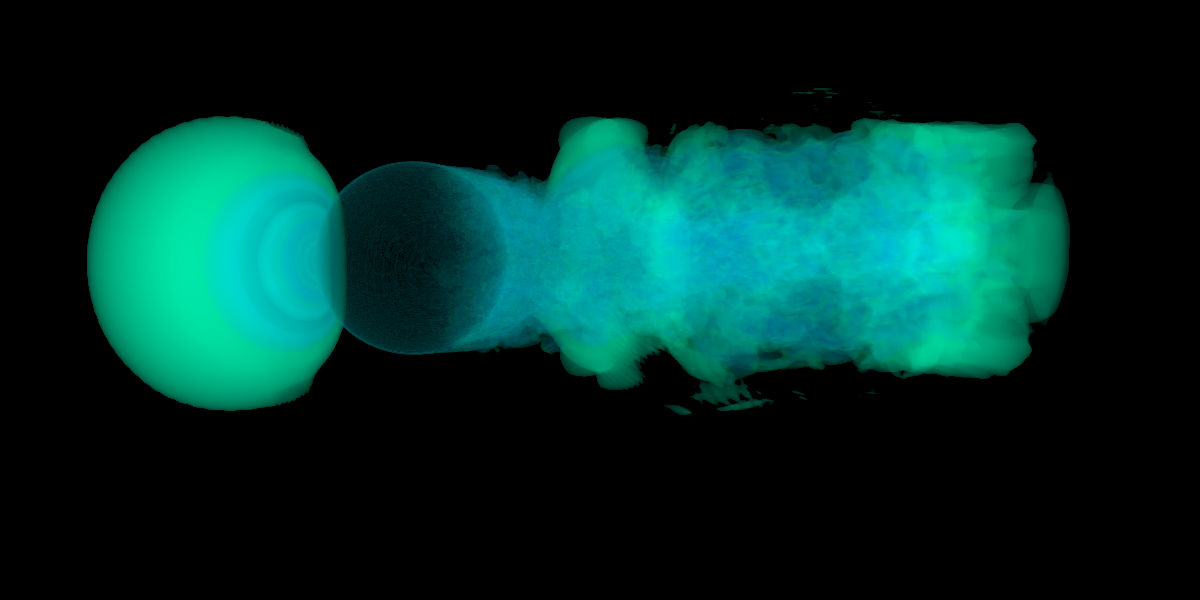
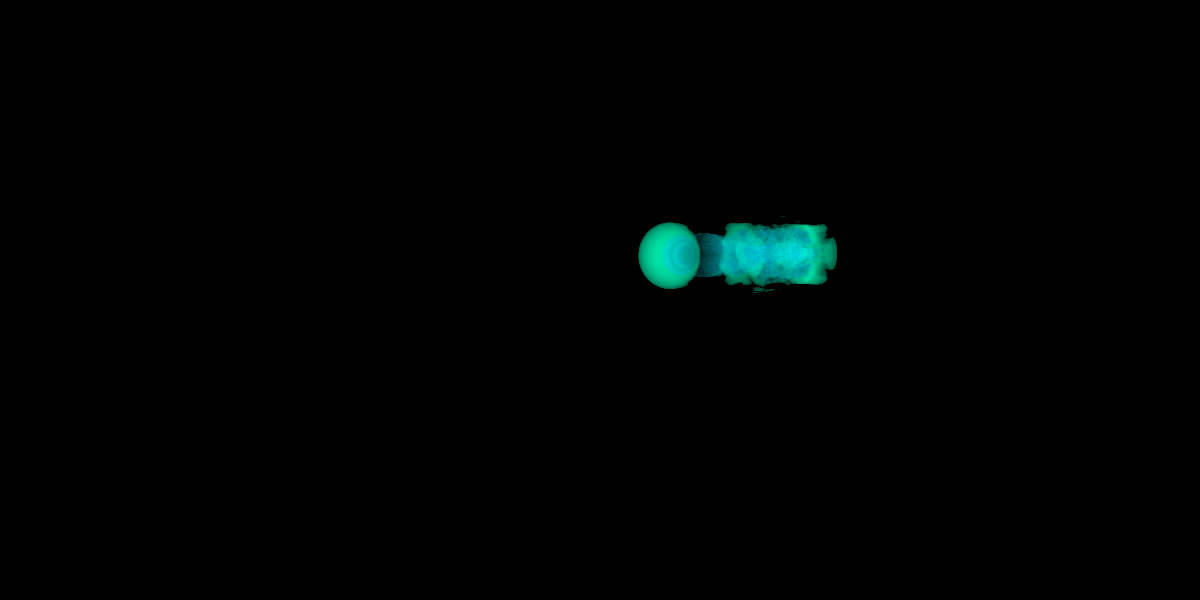
KD tree & adaptive step size.

diff --git a/src/scene.cpp b/src/scene.cpp
@@ -2,9 +2,60 @@
 
 void Scene::setGrids(const std::vector<vdbGrid> &Grids) {
     grids = Grids;
+    KDTree *current = &tree;
+    current->aabb = grids[0].aabb;
+    for (int i = 0; i < grids.size() - 1; ++i) {
+        auto [out_lo, out_hi] = grids[i].aabb;
+        out_lo = grids[i].grid->transform().indexToWorld(grids[i].grid->evalActiveVoxelBoundingBox().min() - Vec3d(1));
+        auto [in_lo, in_hi] = grids[i + 1].aabb;
+        in_lo = grids[i + 1].grid->transform().indexToWorld(grids[i + 1].grid->evalActiveVoxelBoundingBox().min() - Vec3d(1));
+        current->leaf = false;
+        current->children.push_back(KDTree{.leaf=false, .aabb = AABB{in_lo, in_hi}});
+        current->children.push_back(KDTree{.leaf=true,
+                .aabb = AABB{{out_lo.x(), out_lo.y(), out_lo.z()},
+                             {in_lo.x(),  out_hi.y(), out_hi.z()}},
+                .support_layer = i});
+        current->children.push_back(KDTree{.leaf=true,
+                .aabb = AABB{{in_hi.x(),  out_lo.y(), out_lo.z()},
+                             {out_hi.x(), out_hi.y(), out_hi.z()}},
+                .support_layer = i});
+        current->children.push_back(KDTree{.leaf=true,
+                .aabb = AABB{{in_lo.x(), out_lo.y(), out_lo.z()},
+                             {in_hi.x(), in_lo.y(),  out_hi.z()}},
+                .support_layer = i});
+        current->children.push_back(KDTree{.leaf=true,
+                .aabb = AABB{{in_lo.x(), in_hi.y(),  out_lo.z()},
+                             {in_hi.x(), out_hi.y(), out_hi.z()}},
+                .support_layer = i});
+        current->children.push_back(KDTree{.leaf=true,
+                .aabb = AABB{{in_lo.x(), in_lo.y(), out_lo.z()},
+                             {in_hi.x(), in_hi.y(), in_lo.z()}},
+                .support_layer = i});
+        current->children.push_back(KDTree{.leaf=true,
+                .aabb = AABB{{in_lo.x(), in_hi.y(), in_hi.z()},
+                             {in_hi.x(), in_hi.y(), out_hi.z()}},
+                .support_layer = i});
+        current = &current->children[0];
+    }
+    current->support_layer = static_cast<int>(grids.size()) - 1;
+    current->leaf = true;
 }
 
-float Scene::interpolation(const Vec3f &pos) const {
+int Scene::searchTree(const Vec3f pos) const {
+    auto recursiveFind = [](const KDTree *layer, const Vec3f pos, auto &&findLayer) {
+        if (!layer->aabb.inAABB(pos)) return -1;
+        if (layer->leaf) return layer->support_layer;
+        for (const auto &child: layer->children) {
+            if (child.aabb.inAABB(pos)) {
+                return findLayer(&child, pos, findLayer);
+            }
+        }
+        return -1;
+    };
+    return recursiveFind(&tree, pos, recursiveFind);
+}
+
+std::pair<float, float> Scene::interpolation(const Vec3f &pos) const {
     std::vector<std::vector<Vec3i>> Corners;
 
     for (const auto &grid: grids) {
@@ -21,10 +72,14 @@ float Scene::interpolation(const Vec3f &pos) const {
                            {upper.x(), upper.y(), upper.z()}});
     }
 
+    // Traverse KD-tree
+    int layers = searchTree(pos);
+    if (layers == -1) return {0.0f, 0.0f};
+
     float numerator = 0;
     float denominator = 0;
     for (int r = 0; r < 8; ++r) {
-        for (int i = static_cast<int>(Corners.size()) - 1; i >= 0; --i) {
+        for (int i = layers; i >= 0; --i) {
             openvdb::Coord coord{Corners[i][r]};
             if (grids[i].grid->tree().isValueOn(coord)) {
                 Vec3f corner = grids[i].grid->transform().indexToWorld(Corners[i][r]);
@@ -38,7 +93,8 @@ float Scene::interpolation(const Vec3f &pos) const {
             }
         }
     }
-    return denominator == 0 ? 0 : numerator / denominator;
+    if (denominator == 0) return {0.0f, grids[layers].dx};
+    else return {numerator / denominator, grids[layers].dx};
 }
 
 float Scene::sampleOpacity(float value) {
@@ -124,7 +180,7 @@ Vec3f Scene::sampleEmission(float value) {
     return color;
 }
 
-std::pair<Vec3f, float> Scene::getEmissionOpacity(Vec3f value) const {
-    auto inter = interpolation(value);
-    return {sampleEmission(inter), sampleOpacity(inter)};
+std::tuple<Vec3f, float, float> Scene::getEmissionOpacity(Vec3f value) const {
+    auto [inter, layer] = interpolation(value);
+    return {sampleEmission(inter), sampleOpacity(inter), layer};
 }

diff --git a/src/integrator.cpp b/src/integrator.cpp
@@ -31,7 +31,7 @@ void Integrator::render() const {
 }
 
 Vec3f Integrator::radiance(Ray &ray, float t0, float t1) const {
-    float step_size = 0.01;
+    float step_size = scene->grids[0].dx;
     Vec3f src_color = Vec3f{0, 0, 0};
     float src_opacity = 0;
     auto dst_t = (float) fmax(t0 - step_size, ray.t0());
@@ -40,7 +40,10 @@ Vec3f Integrator::radiance(Ray &ray, float t0, float t1) const {
     while (dst_t < t1 - step_size) {
         dst_t += step_size;
         dst_pos = ray(dst_t);
-        std::tie(dst_color, dst_opacity) = scene->getEmissionOpacity(dst_pos);
+        float dx;
+        std::tie(dst_color, dst_opacity, dx) = scene->getEmissionOpacity(dst_pos);
+        // Adaptive step size
+        if (dx != 0) step_size = dx;
         dst_color *= step_size;
         dst_opacity = 1 - std::pow(1 - dst_opacity, step_size);
         dst_color += (1 - dst_opacity) * src_color;

diff --git a/src/main.cpp b/src/main.cpp
@@ -14,7 +14,6 @@ int main() {
 
     std::shared_ptr<ImageRGB> image = std::make_shared<ImageRGB>(1200, 600);
     Camera cam(Vec3f(3, 3.2, 15), 19.5, 1, Vec3f(10, 0, -10), Vec3f(0, 1, 0), image);
-//    Camera cam(Vec3f(3, 3.2, 15) - 3 * Vec3f(10, 0, -10), 19.5, 1, Vec3f(10, 0, -10), Vec3f(0, 1, 0), image);
     Scene scene;
     scene.setGrids(ScalarGrids);
     Integrator integrator(std::make_shared<Camera>(cam), std::make_shared<Scene>(scene));
@@ -28,11 +27,4 @@ int main() {
     image->writeImgToFile("./result.png");
     std::cout << "Image saved to disk." << std::endl;
     return 0;
-
-//    std::vector<Vec3f> vertices, normals;
-//    std::vector<int> v_index, n_index;
-//    Reader::loadObj("dataset/sphere.obj", vertices, normals, v_index, n_index);
-//    std::cout << 1 << std::endl;
-
-
 }

diff --git a/include/AABB.h b/include/AABB.h
@@ -7,13 +7,17 @@ struct AABB {
     Vec3f lower_bnd;
     Vec3f upper_bnd;
 
+    AABB() = default;
+
+    AABB(Vec3f lower, Vec3f upper);
+
     explicit AABB(const floatGrid::Ptr &grid);
 
     bool intersect(const Ray &ray, float &t0, float &t1) const;
 
-    bool isOverlap(const AABB &other) const;
+    [[nodiscard]] bool isOverlap(const AABB &other) const;
 
-    bool inAABB(Vec3f point) const;
+    [[nodiscard]] bool inAABB(Vec3f point) const;
 };
 
 struct vdbGrid {
@@ -23,6 +27,13 @@ struct vdbGrid {
 
 
     explicit vdbGrid(const floatGrid::Ptr &grid);
+};
+
+struct KDTree {
+    bool leaf;
+    AABB aabb;
+    int support_layer;
+    std::vector<KDTree> children;
 };
 
 

diff --git a/include/scene.h b/include/scene.h
@@ -9,15 +9,19 @@ public:
 
     std::vector<vdbGrid> grids;
 
+    KDTree tree;
+
+    [[nodiscard]] int searchTree(Vec3f pos) const;
+
     void setGrids(const std::vector<vdbGrid> &Grids);
 
-    float interpolation(const Vec3f &pos) const;
+    [[nodiscard]] std::pair<float, float> interpolation(const Vec3f &pos) const;
 
     static float sampleOpacity(float value) ;
 
     static Vec3f sampleEmission(float value);
 
-    std::pair<Vec3f, float> getEmissionOpacity(Vec3f value) const;
+    [[nodiscard]] std::tuple<Vec3f, float, float> getEmissionOpacity(Vec3f value) const;
 };
 
 #endif //CS171_FINAL_PROJECT_SCENE_H

diff --git a/src/AABB.cpp b/src/AABB.cpp
@@ -1,5 +1,7 @@
 #include "AABB.h"
 
+AABB::AABB(Vec3f lower, Vec3f upper) : lower_bnd(lower), upper_bnd(upper) {};
+
 AABB::AABB(const floatGrid::Ptr &grid) :
         lower_bnd(grid->transform().indexToWorld(grid->evalActiveVoxelBoundingBox().min())),
         upper_bnd(grid->transform().indexToWorld(grid->evalActiveVoxelBoundingBox().max())) {}
